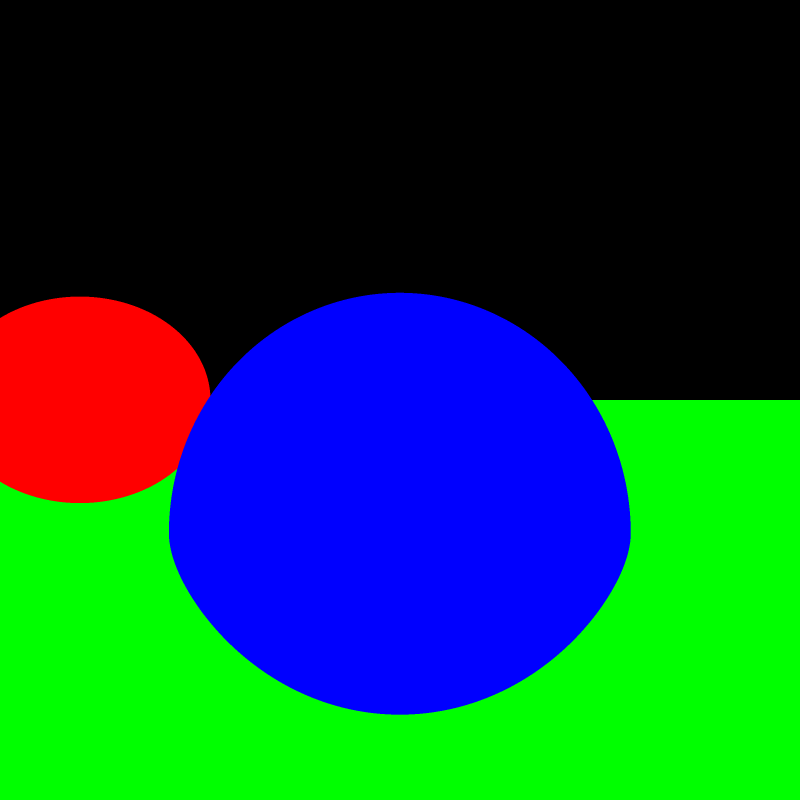
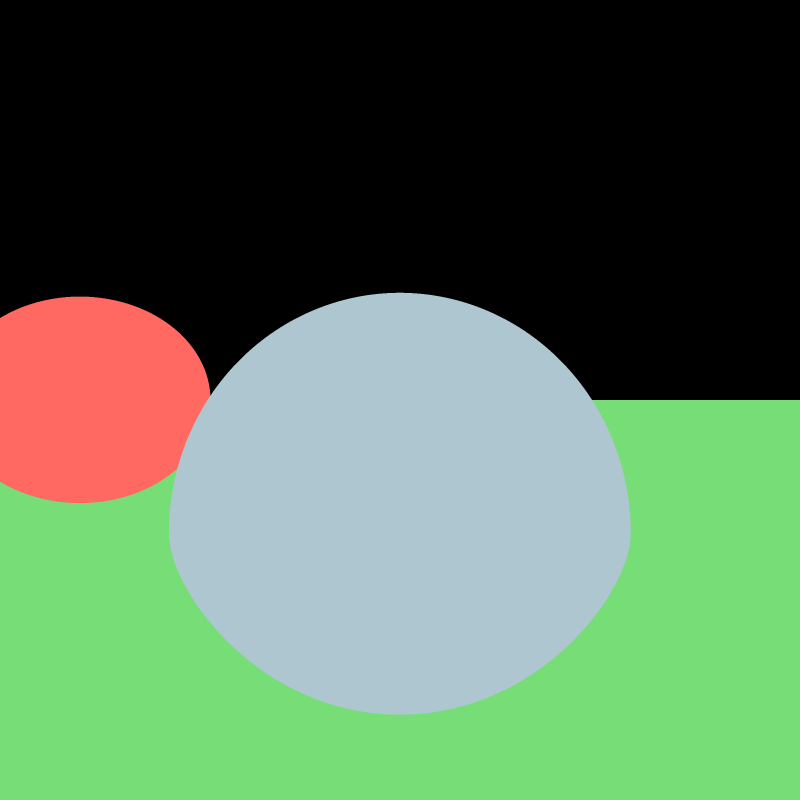
Create predefined colors

diff --git a/src/color.rs b/src/color.rs
@@ -1,5 +1,28 @@
 use image;
 
+pub const RGB_BLACK: Rgb = Rgb { r: 0, g: 0, b: 0 };
+pub const RGB_WHITE: Rgb = Rgb { r: 255, g: 255, b: 255 };
+
+pub const RGB_RED: Rgb = Rgb { r: 255, g: 0, b: 0 };
+pub const RGB_GREEN: Rgb = Rgb { r: 0, g: 255, b: 0 };
+pub const RGB_BLUE: Rgb = Rgb { r: 0, g: 0, b: 255 };
+
+pub const RGB_CYAN: Rgb = Rgb { r: 0, g: 255, b: 255 };
+pub const RGB_MAGENTA: Rgb = Rgb { r: 255, g: 0, b: 255 };
+pub const RGB_YELLOW: Rgb = Rgb { r: 255, g: 255, b: 0 };
+
+pub const RGB_PASTEL_BLUE: Rgb = Rgb { r: 174, g: 198, b: 207 };
+pub const RGB_PASTEL_BROWN: Rgb = Rgb { r: 131, g: 105, b: 83 };
+pub const RGB_PASTEL_GRAY: Rgb = Rgb { r: 207, g: 207, b: 196 };
+pub const RGB_PASTEL_GREEN: Rgb = Rgb { r: 119, g: 221, b: 119 };
+pub const RGB_PASTEL_MAGENTA: Rgb = Rgb { r: 244, g: 154, b: 194 };
+pub const RGB_PASTEL_ORANGE: Rgb = Rgb { r: 255, g: 179, b: 71 };
+pub const RGB_PASTEL_PINK: Rgb = Rgb { r: 255, g: 209, b: 220 };
+pub const RGB_PASTEL_PURPLE: Rgb = Rgb { r: 179, g: 158, b: 181 };
+pub const RGB_PASTEL_RED: Rgb = Rgb { r: 255, g: 105, b: 97 };
+pub const RGB_PASTEL_VIOLET: Rgb = Rgb { r: 203, g: 153, b: 201 };
+pub const RGB_PASTEL_YELLOW: Rgb = Rgb { r: 253, g: 253, b: 150 };
+
 #[derive(Copy, Clone)]
 pub struct Rgb {
 	pub r: u8,

diff --git a/src/main.rs b/src/main.rs
@@ -16,22 +16,28 @@ use object::Plane;
 use color::Rgb;
 
 fn main() {
-	let red = Rgb::new(255, 0, 0);
-	let green = Rgb::new(0, 255, 0);
-	let blue = Rgb::new(0, 0, 255);
-
 	let camera = Camera::new(
 		Point3::new(0.0, 0.0, 0.0),
 		std::f32::consts::PI / 2.0,
 		Vector3::new(1.0, 0.0, 0.0)
 	);
 
-	let sphere = Sphere::new(Point3::new(4.0, 0.0, -1.0), 2.0, blue);
-	let sphere2 = Sphere::new(Point3::new(4.0, 3.0, 0.0), 1.0, red);
+	let sphere = Sphere::new(
+		Point3::new(4.0, 0.0, -1.0),
+		2.0,
+		color::RGB_PASTEL_BLUE
+	);
+
+	let sphere2 = Sphere::new(
+		Point3::new(4.0, 3.0, 0.0),
+		1.0,
+		color::RGB_PASTEL_RED
+	);
+
 	let plane = Plane::new(
 		Point3::new(0.0, 0.0, -1.0),
 		Vector3::new(0.0, 0.0, -1.0),
-		green
+		color::RGB_PASTEL_GREEN
 	);
 
 	let mut scene = Scene::new(camera);

diff --git a/src/scene.rs b/src/scene.rs
@@ -1,6 +1,7 @@
 use crate::camera::Camera;
 use crate::object::Object;
 use crate::ray::Ray;
+use crate::color::RGB_BLACK;
 use crate::color::Rgb;
 
 use image::{ImageBuffer, RgbImage};
@@ -85,9 +86,10 @@ impl Scene {
 
 						if min_object.is_some() {
 							let min_object = min_object.unwrap();
+
 							color = min_object.color();
 						} else {
-							color = Rgb::new(0, 0, 0);
+							color = RGB_BLACK;
 						}
 
 						r += color.r as u16;
